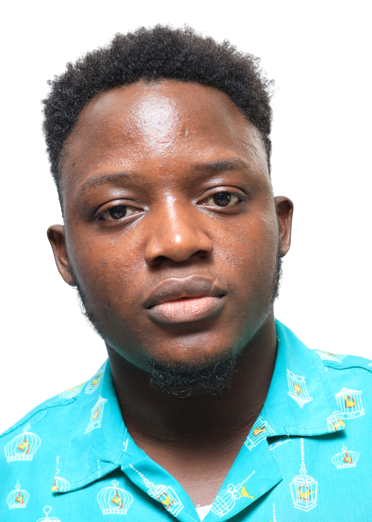
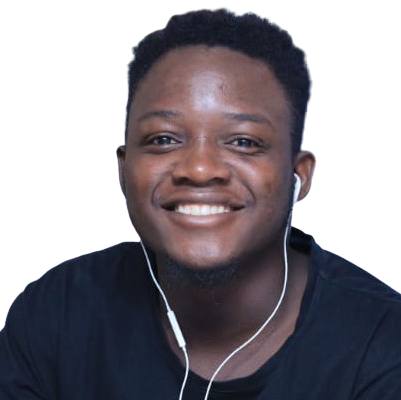
added my picture

diff --git a/portfolio/comps/About.js b/portfolio/comps/About.js
@@ -3,7 +3,7 @@ import Atropos from 'atropos/react'
 import { motion } from 'framer-motion'
 import 'atropos/css'
 
-import img from '/public/8.png'
+import img from '/public/me.png'
 import styles from '../styles/About.module.css'
 import AboutBackground from './AboutBackground'
 
@@ -20,7 +20,7 @@ const About = () => {
             <div className={styles.about}>
                 <Atropos className='my-atropos'>
                     <motion.div className={styles.image__container}>
-                        <Image src={img} alt='avatar from craftwork' layout='fill' width={100} />
+                        <Image src={img} alt='Okunola Samson' layout='fill' />
                     </motion.div>
                 </Atropos>
                 <p>I&apos;m a self-taught Frontend Web Developer based in Lagos, Nigeria. I love minimalist & cool designs and animations. I spend most of my time either writing new codes or reviewing previous ones, adhering to real applications implementation with the knowledge and understanding of web development concepts.

diff --git a/portfolio/styles/About.module.css b/portfolio/styles/About.module.css
@@ -45,11 +45,12 @@
     align-items: center;
     justify-content: center;
     background: var(--light);
-    border-radius: 50%;
+    border-radius: 15%;
+    position: relative;
 }
 
 .image__container img {
-    border-radius: 50%;
+    border-radius: 15%;
 }
 
 @media screen and (max-width: 800px) {
